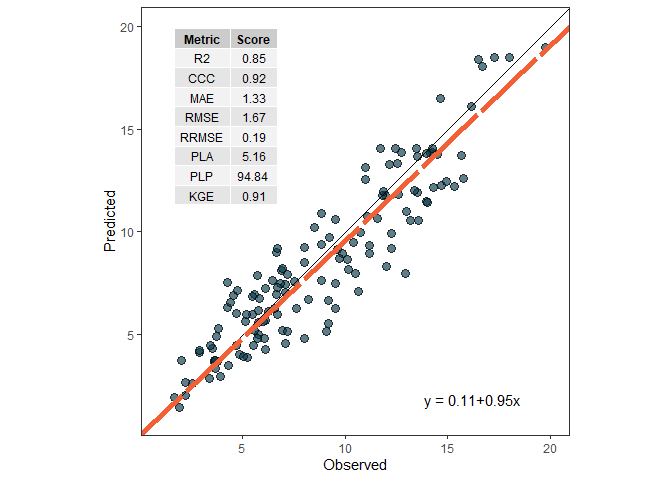
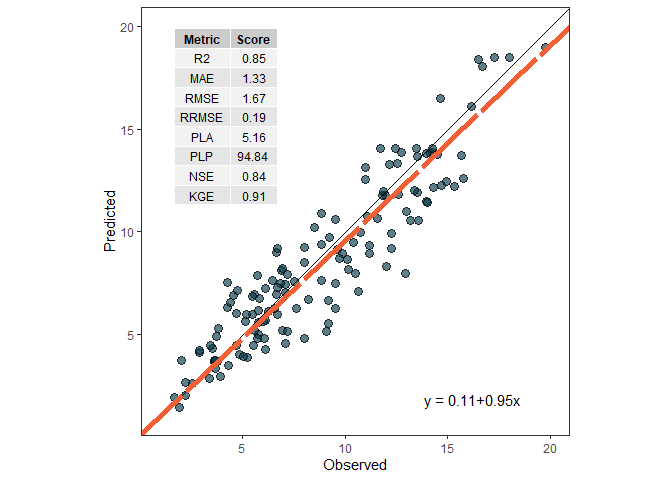
Dev update toward v2.1.4

Changed region(s): [[0.25, 0.1562, 0.4062, 0.375]]

diff --git a/README.md b/README.md
@@ -207,14 +207,14 @@ nested.examples <- bind_rows(list(wheat = metrica::wheat,
   dplyr::group_by(id) %>% tidyr::nest() %>% dplyr::ungroup()
 
 head(nested.examples %>% group_by(id) %>% dplyr::slice_head(n=2))
-#> # A tibble: 4 x 2
+#> # A tibble: 4 × 2
 #> # Groups:   id [4]
 #>   id       data              
 #>   <chr>    <list>            
-#> 1 barley   <tibble [69 x 2]> 
-#> 2 chickpea <tibble [39 x 2]> 
-#> 3 sorghum  <tibble [36 x 2]> 
-#> 4 wheat    <tibble [137 x 2]>
+#> 1 barley   <tibble [69 × 2]> 
+#> 2 chickpea <tibble [39 × 2]> 
+#> 3 sorghum  <tibble [36 × 2]> 
+#> 4 wheat    <tibble [137 × 2]>
 
 # 4.b. Run 
 multiple.sum <- nested.examples %>% 
@@ -222,13 +222,13 @@ multiple.sum <- nested.examples %>%
   mutate(performance = map(data, ~metrica::metrics_summary(data=., obs = obs, pred = pred)))
 
 head(multiple.sum)
-#> # A tibble: 4 x 3
+#> # A tibble: 4 × 3
 #>   id       data               performance  
 #>   <chr>    <list>             <list>       
-#> 1 wheat    <tibble [137 x 2]> <df [41 x 2]>
-#> 2 barley   <tibble [69 x 2]>  <df [41 x 2]>
-#> 3 sorghum  <tibble [36 x 2]>  <df [41 x 2]>
-#> 4 chickpea <tibble [39 x 2]>  <df [41 x 2]>
+#> 1 wheat    <tibble [137 × 2]> <df [41 × 2]>
+#> 2 barley   <tibble [69 × 2]>  <df [41 × 2]>
+#> 3 sorghum  <tibble [36 × 2]>  <df [41 × 2]>
+#> 4 chickpea <tibble [39 × 2]>  <df [41 × 2]>
 ```
 
 ## 4. Print metrics in a plot
@@ -237,10 +237,14 @@ head(multiple.sum)
 df <- metrica::wheat
 
 # B. Create list of selected metrics
-selected.metrics <- c("MAE","RMSE", "RRMSE", "R2", "CCC", "KGE", "PLA", "PLP")
+selected.metrics <- c("MAE","RMSE", "RRMSE", "R2", "NSE", "KGE", "PLA", "PLP")
 
-metrica::scatter_plot(data = df, obs = obs, pred = pred, print_metrics = TRUE, 
-                      metrics_list = selected.metrics)
+plot <- metrica::scatter_plot(data = df, 
+                              obs = obs, pred = pred, 
+                              print_metrics = TRUE, 
+                              metrics_list = selected.metrics)
+
+plot
 ```
 
 <img src="man/figures/README-unnamed-chunk-3-1.png" width="100%" />

diff --git a/NEWS.md b/NEWS.md
@@ -1,3 +1,11 @@
+# metrica 1.2.4
+
+* May 27th, 2022. <br/>
+
+Development update fixing minor a bug on the NSE() function to estimate the Nash-Sutcliffe model efficiency that produce only values of NSE=1.00 on v1.23.
+
+# Previous versions
+
 # metrica 1.2.3
 
 * May, 10, 2022. <br/>
@@ -6,8 +14,6 @@ Maintenance update fixing minor errors after feedback from CRAN submission of v1
 'donttest' instead of 'dontrun' in functions' examples, adding references into functions).
 Also, the available metrics vignette was updated adding the corresponding citations of 
 formulae used into functions.
-
-# Previous versions
 
 # metrica 1.2.2
 
